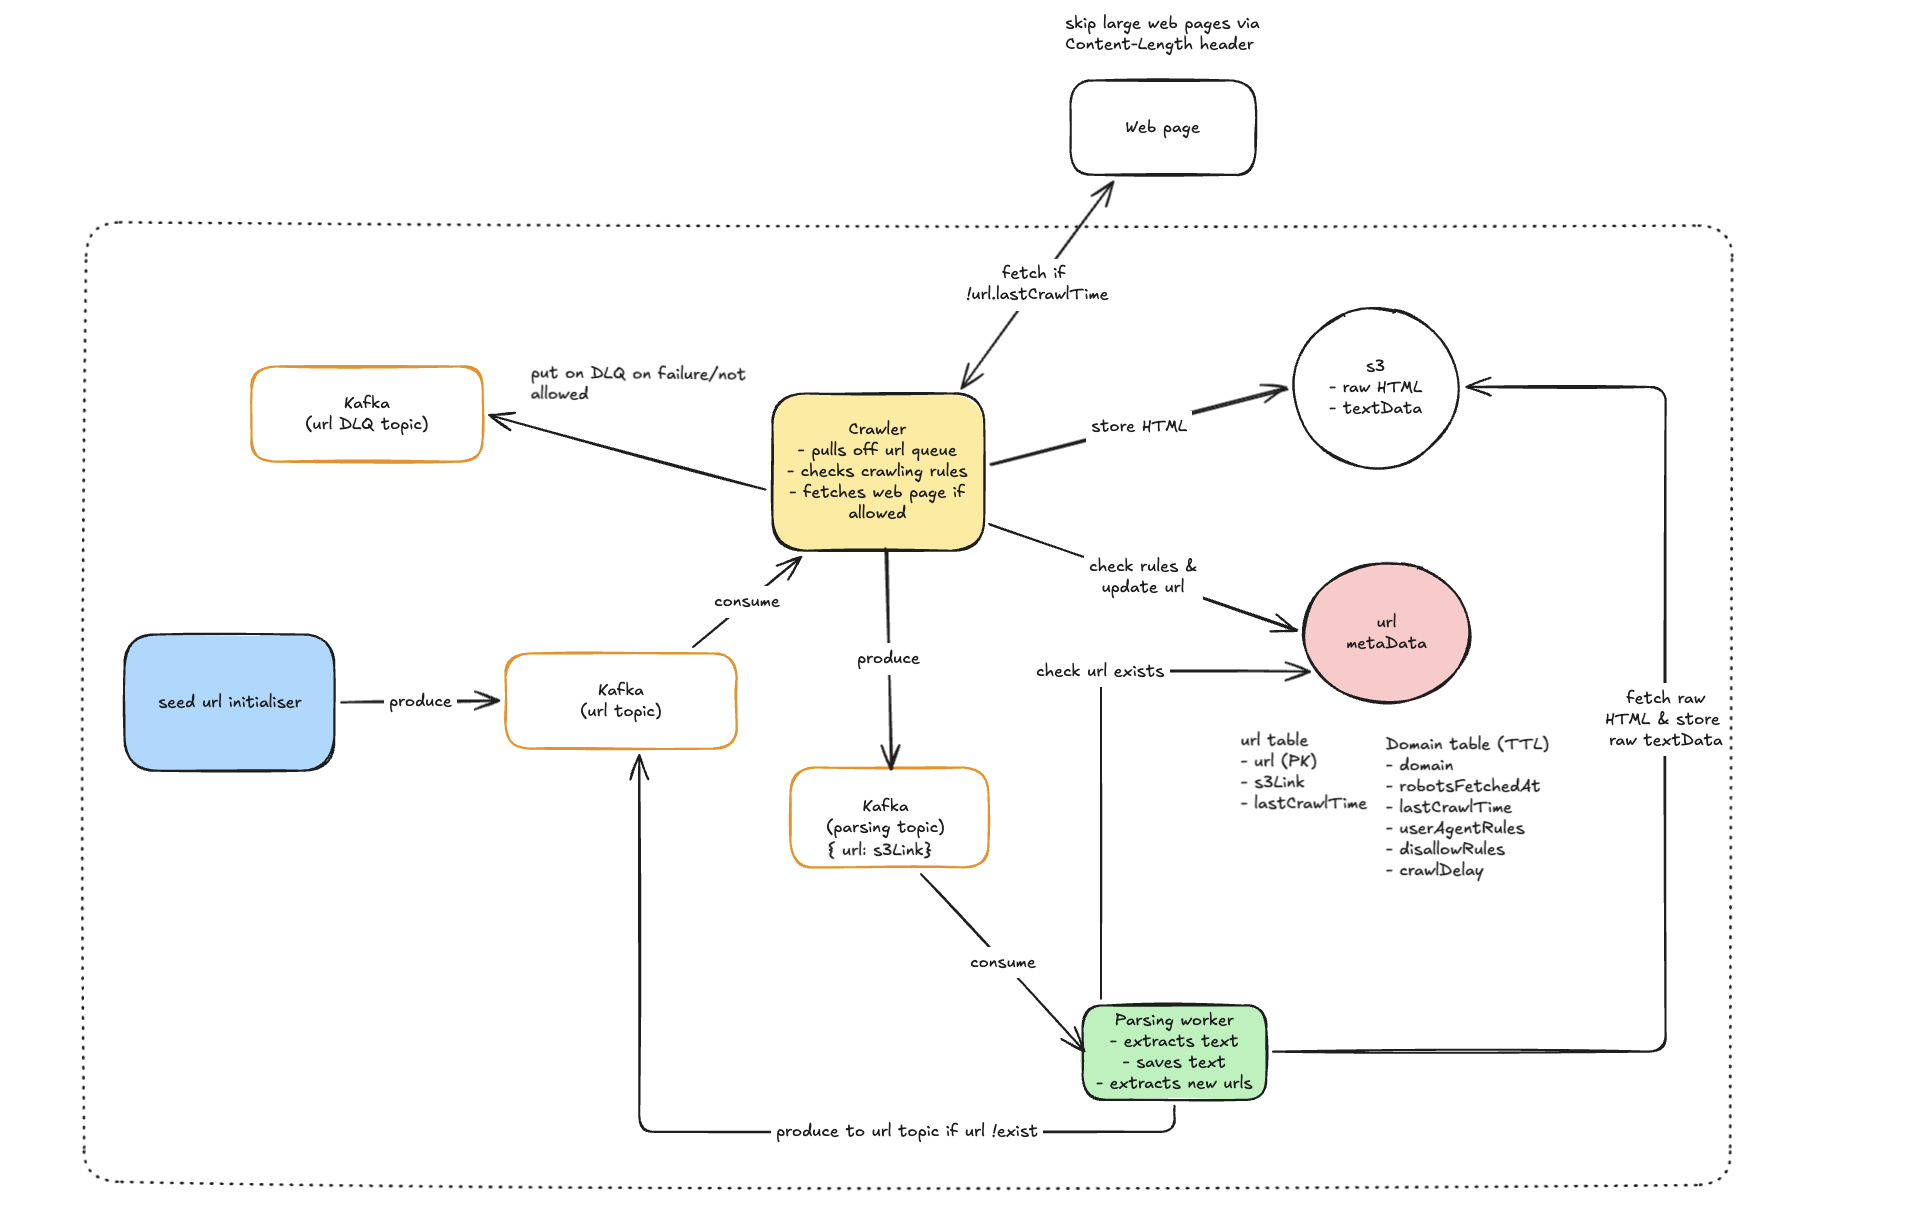
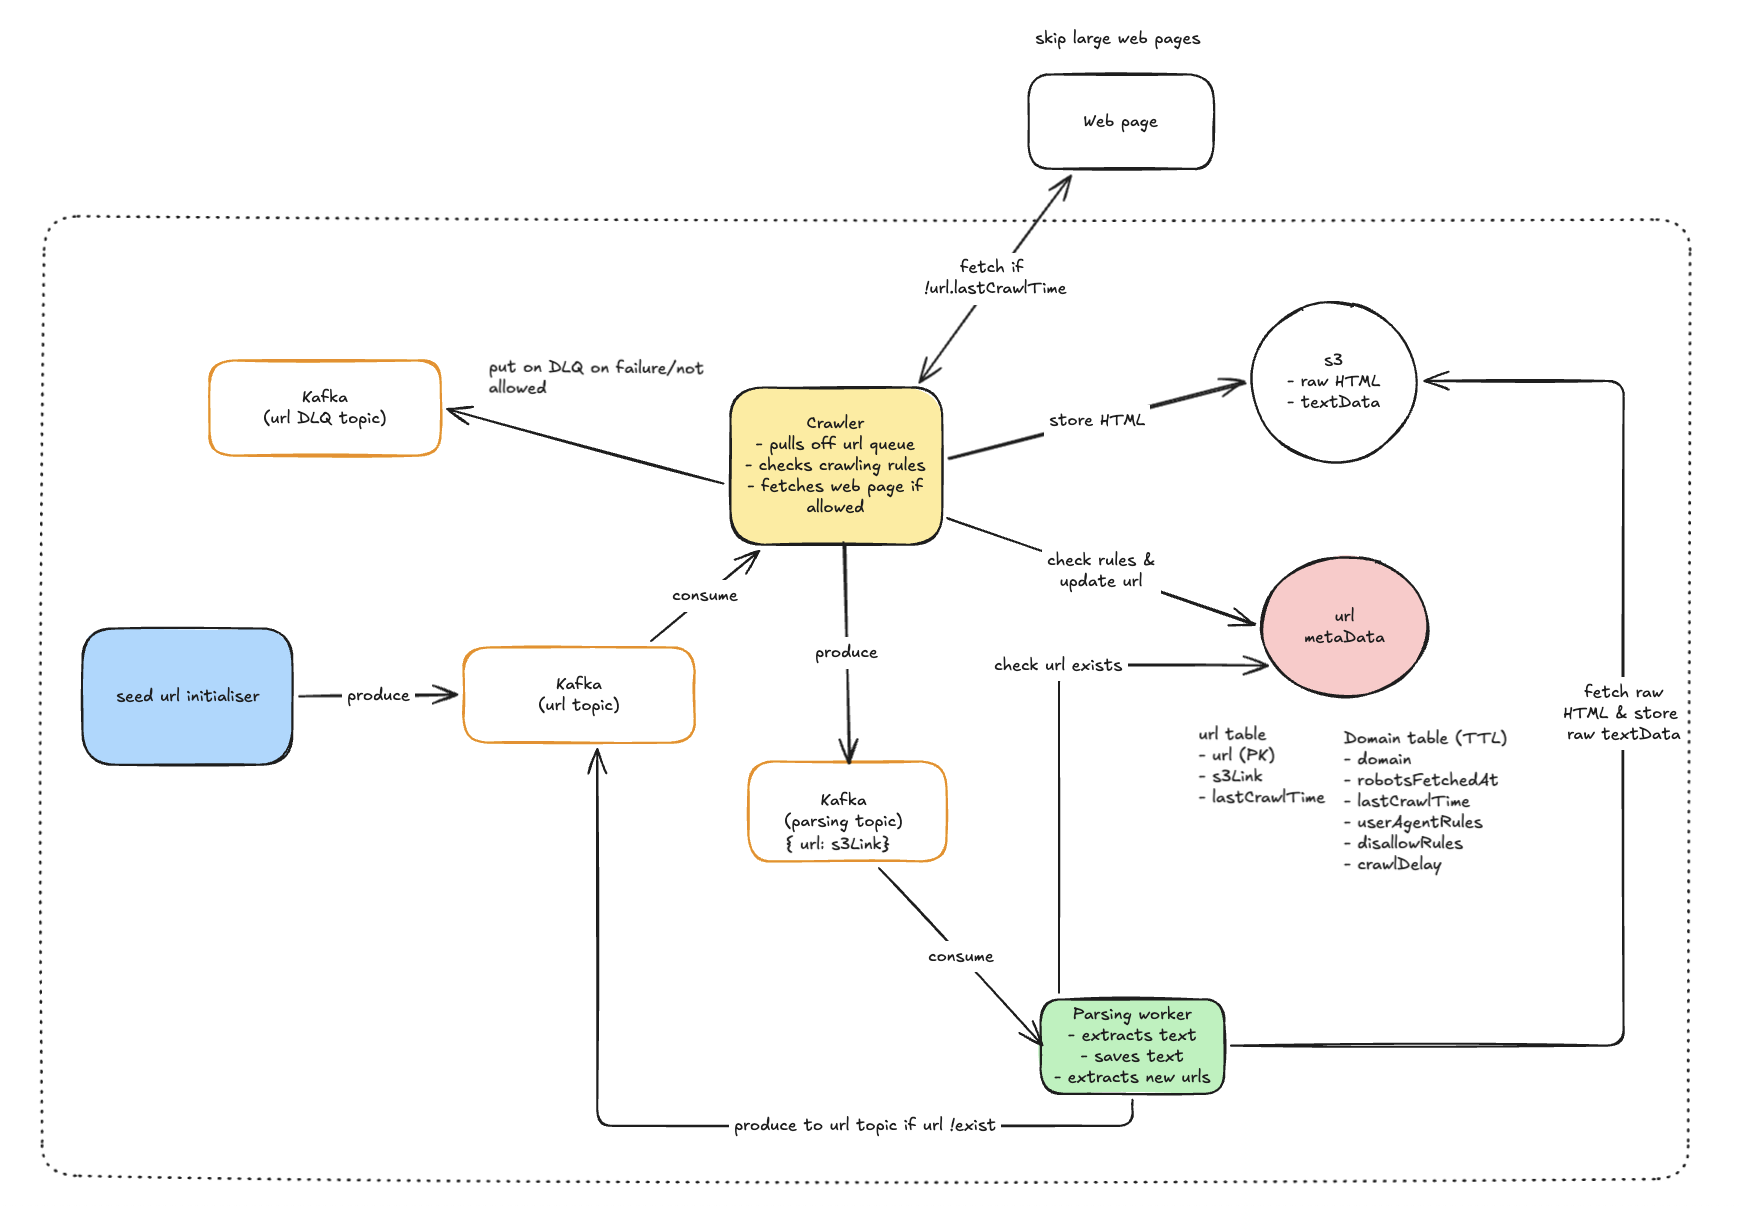
Added Kafka polling and fixed context bug + updated app architecture diagram

diff --git a/crawler/main.go b/crawler/main.go
@@ -2,7 +2,6 @@ package main
 
 import (
 	"context"
-	"encoding/json"
 	"errors"
 	"fmt"
 	"io"
@@ -10,7 +9,8 @@ import (
 	"net/http"
 	"net/url"
 	"os"
-	"strconv"
+	"os/signal"
+	"syscall"
 	"time"
 
 	"github.com/segmentio/kafka-go"
@@ -19,10 +19,14 @@ import (
 )
 
 const (
-	kafkaTimeout      = 5 * time.Second
-	kafkaMinBatchSize = 10e3            // 10KB
-	kafkaMaxBatchSize = 10e6            // 10MB
-	maxContentSize    = 2 * 1024 * 1024 // 2 MB
+	kafkaTimeout      = 10 * time.Second
+	kafkaPollInterval = 30 * time.Second
+	kafkaMinBatchSize = 10e3 // 10KB
+	kafkaMaxBatchSize = 10e6 // 10MB
+
+	maxContentSize = 2 * 1024 * 1024 // 2 MB
+
+	httpTimeout = 30 * time.Second
 )
 
 func main() {
@@ -31,11 +35,12 @@ func main() {
 		os.Exit(1)
 	}
 
-	slog.Info("shutting down crawler...")
+	slog.Info("shutting down crawler gracefully...")
 }
 
 func run() error {
-	ctx := context.Background()
+	ctx, stop := signal.NotifyContext(context.Background(), os.Interrupt, syscall.SIGTERM)
+	defer stop()
 
 	cfg, err := config.ParseEnv()
 	if err != nil {
@@ -59,7 +64,19 @@ func run() error {
 		cancel()
 
 		if errors.Is(err, context.DeadlineExceeded) {
-			break
+			slog.Info("no messages available, waiting to poll again", slog.Duration("interval", kafkaPollInterval))
+			select {
+			case <-ctx.Done():
+				slog.Info("context cancelled")
+				return nil
+			case <-time.After(kafkaPollInterval):
+				continue
+			}
+		}
+
+		if errors.Is(err, context.Canceled) {
+			slog.Info("context cancelled")
+			return nil
 		}
 
 		if err != nil {
@@ -67,14 +84,12 @@ func run() error {
 			return err
 		}
 
+		slog.Info("processing message", slog.String("id", string(msg.Key)))
+
 		if err := processMessage(ctx, client, msg.Value); err != nil {
 			continue
 		}
 	}
-
-	slog.Info("consuming from topic complete")
-
-	return nil
 }
 
 func newReader(broker, topic string) *kafka.Reader {
@@ -89,19 +104,16 @@ func newReader(broker, topic string) *kafka.Reader {
 }
 
 func processMessage(ctx context.Context, client *http.Client, raw []byte) error {
-	var seedUrl string
-	if err := json.Unmarshal(raw, &seedUrl); err != nil {
-		slog.Error("failed to unmarshal url", slog.Any("error", err))
-		return err
-	}
-
-	parsedUrl, err := url.Parse(seedUrl)
+	parsedUrl, err := url.Parse(string(raw))
 	if err != nil {
 		slog.Error("failed to parse url", slog.Any("error", err))
 		return err
 	}
 
-	res, ok, err := fetchWithLimit(ctx, client, parsedUrl.String())
+	httpCtx, cancel := context.WithTimeout(ctx, httpTimeout)
+	defer cancel()
+
+	res, ok, err := fetchWithLimit(httpCtx, client, parsedUrl.String())
 	if ok {
 		fmt.Println(">>> res:", string(res))
 	}
@@ -110,50 +122,30 @@ func processMessage(ctx context.Context, client *http.Client, raw []byte) error 
 }
 
 func fetchWithLimit(ctx context.Context, client *http.Client, seedUrl string) (data []byte, skipped bool, err error) {
-	hReq, hErr := http.NewRequestWithContext(ctx, "HEAD", seedUrl, http.NoBody)
-	if hErr != nil {
-		slog.Error("failed to create HEAD request", slog.Any("error", hErr))
-		return nil, skipped, fmt.Errorf("failed to create HEAD request %v", hErr)
-	}
-
-	res, err := client.Do(hReq)
-	if err != nil {
-		slog.Error("failed to make HEAD request", slog.Any("error", err))
-		return nil, skipped, fmt.Errorf("failed to make HEAD request %v", err)
-	}
-	defer res.Body.Close() //nolint:errcheck
-
-	if cl := res.Header.Get("Content-Length"); cl != "" {
-		size, err := strconv.ParseInt(cl, 10, 64)
-		if err != nil {
-			slog.Error("failed to parse content length", slog.Any("error", err))
-			return nil, skipped, fmt.Errorf("failed to parse content length %v", err)
-		}
-
-		if size > maxContentSize {
-			skipped = true
-			slog.Info("skipped large web page request", slog.Int64("content-length", size))
-			return nil, skipped, nil
-		}
-	}
-
 	req, err := http.NewRequestWithContext(ctx, http.MethodGet, seedUrl, http.NoBody)
 	if err != nil {
 		slog.Error("failed to create web page request", slog.Any("error", err))
-		return nil, skipped, fmt.Errorf("failed to create web page request %v", err)
+		return nil, false, fmt.Errorf("failed to create web page request %v", err)
 	}
-	res, err = client.Do(req)
+
+	res, err := client.Do(req)
 	if err != nil {
 		slog.Error("failed to make web page request", slog.Any("error", err))
-		return nil, skipped, fmt.Errorf("failed to make web page request %v", err)
+		return nil, false, fmt.Errorf("failed to make web page request %v", err)
 	}
 	defer res.Body.Close() //nolint:errcheck
 
-	data, err = io.ReadAll(res.Body)
+	limited := io.LimitReader(res.Body, maxContentSize+1)
+	data, err = io.ReadAll(limited)
 	if err != nil {
 		slog.Error("failed to read response", slog.Any("error", err))
-		return nil, skipped, fmt.Errorf("failed to read response: %v", err)
+		return nil, false, fmt.Errorf("failed to read response: %v", err)
 	}
 
-	return data, skipped, nil
+	if int64(len(data)) > maxContentSize {
+		slog.Info("skipped large web page request", slog.Int64("content-length", int64(len(data))))
+		return nil, true, nil
+	}
+
+	return data, false, nil
 }
